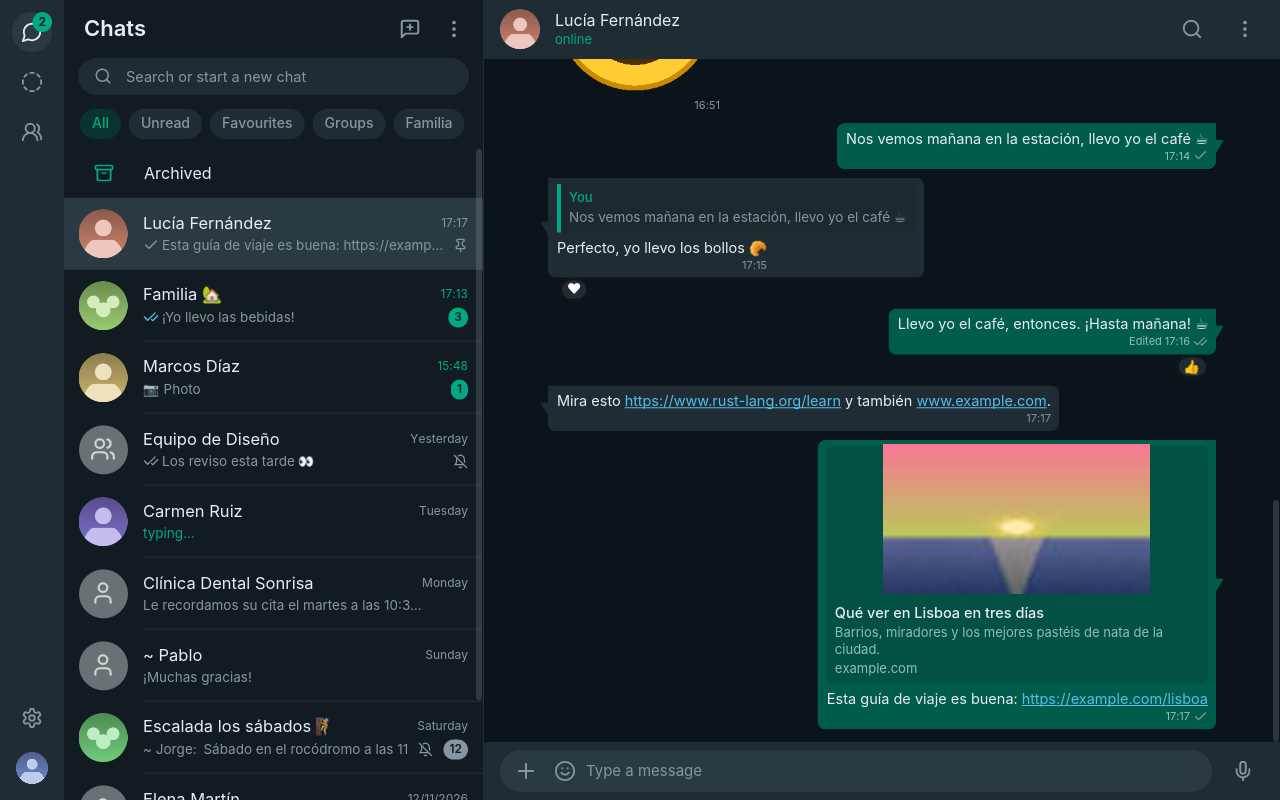
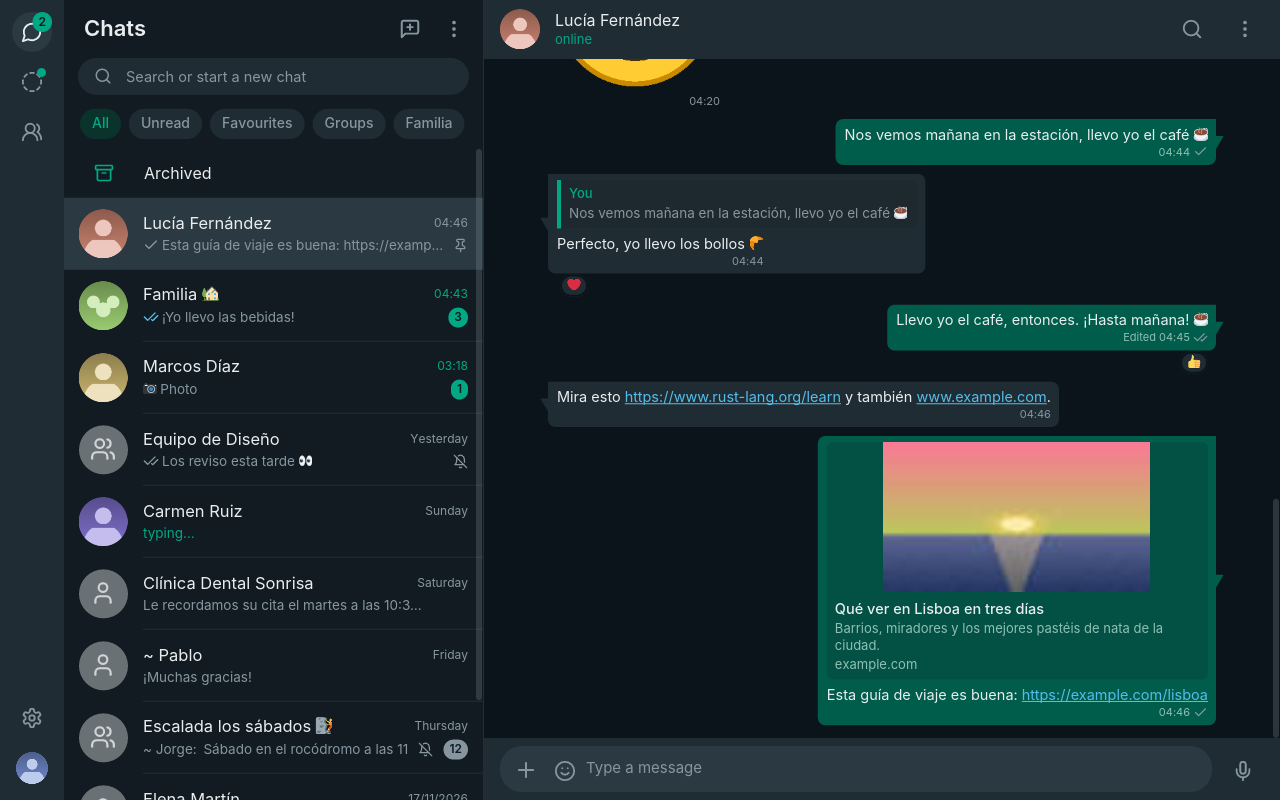
docs: composer, emoji, mentions, viewer, info drawer and unread lessons; screenshots
Claude-Session: https://claude.ai/code/session_011GZUAJAc8TohrBZJFGozGm

diff --git a/docs/protocol.md b/docs/protocol.md
@@ -107,6 +107,18 @@ click jumps to the original, loading the cache around it when needed.
 | Presence | `presence().subscribe` when a DM is opened | the library announces us as available itself |
 | Profile pictures | `contacts().get_profile_picture(preview)` + one GET through the library's HTTP client | max 3 lookups at once, only for rows on screen |
 | Group size | `groups().query_info` (cached by the library) | for the aggregate ticks |
+| Contact info drawer | `contacts().get_user_info` (usync: status = "About", verified business name) | only when the drawer opens; privacy settings may hide the About text |
+| Group info drawer | `groups().get_metadata` (description, participants with admin type) | when the drawer opens |
+| Groups in common | `groups().get_participating`, filtered by the contact's PN / LID | when the drawer opens |
+| Block / unblock | `blocking().block / unblock`, `blocking().is_blocked` | after a confirmation in the drawer |
+| Mute / unmute | `chat_actions().mute_chat` (indefinite) / `unmute_chat` | optimistic, reverted on failure; mute durations other than "always" are not offered yet |
+
+Mentions: `contextInfo.mentionedJid` is kept per message (cache column
+`mentions`, schema 6). An "@<digits>" in the text is shown as the name of
+the mentioned JID: LID -> phone number through the learned pairs, then
+saved > business > push name, then the formatted number; an unnamed LID
+without a known number reads "@Unknown", never digits
+(`ChatList::mention_label`).
 
 The 10 s / 5 s typing timings and the 15 min / 2.5 day windows follow what
 WhatsApp Web does as far as we know; they are constants in `app/live.rs` and
@@ -233,7 +245,9 @@ chats are unchanged.
 | `~/.config/autostart/dev.ferro.ferrochat.desktop` | "Start at login" entry (`Exec=<binary> --minimized`) | Only when the user turns the toggle on; the toggle removes it |
 | `$XDG_DATA_HOME/ferrochat/ferrochat.sock` | Single-instance hand-off: accepts only the line `show` | Unix socket in the 0700 data directory, mode 0600, removed on exit |
 | `$XDG_STATE_HOME/ferrochat/log` (rotated at 5 MB) | Logs | Bodies, phone numbers, QR payloads, keys and file names are redacted (`Redacted`, `MaskedJid`, manual `Debug` impls; covered by `tests/redaction.rs`). |
-| `~/Downloads/<name>` | Documents the user opened | Only on explicit click. |
+| `~/Downloads/<name>` | Documents the user opened; photos saved or opened externally from the image viewer | Only on explicit click. |
+| (cache column `messages.thumb` of videos) | A poster frame (JPEG, <= 480 px) decoded by the player helper for videos (<= 16 MB) that arrived without an inline thumbnail; the video itself lands in the `videos/` cache above | Same file as the cache |
+| (cache key `recent_emoji`) | The emoji picker's recent emoji | Same file as the cache |
 
 The data directory is created with mode 0700 and every database file
 (including `-wal` / `-shm`) is set to 0600. Downloads are capped at 100 MB
@@ -401,6 +415,13 @@ decodes in-process (memory cannot be given back by closing the viewer).
   retroactively).
 * Group "read" ticks turn blue on the first participant's read receipt
   (WhatsApp waits for all participants).
+* Videos that arrive without `jpegThumbnail` (seen on history-synced media;
+  the library's default `HistorySyncConfig` does not ask for
+  `thumbnailSyncDaysLimit`) get a poster frame from the helper when they are
+  at most 16 MB; bigger ones keep the placeholder until played.
+* The info drawer has no "disappearing messages", encryption code,
+  "report" or "exit group" actions, and media visibility / per-chat
+  wallpaper are not offered; mute is "always" only.
 * Windows and macOS have no tray yet (stub): closing the window quits.
 * On Wayland the compositor may refuse to focus a window that is shown from
   the tray or a notification (xdg-activation); it then appears without focus.

diff --git a/LESSONS.md b/LESSONS.md
@@ -221,3 +221,55 @@ next change.
   `Runtime::drop` waits for every `spawn_blocking` task with no timeout. KDE Plasma keeps notifications in
   its history and sends `NotificationClosed` only on dismissal, so `wait_for_action` on the blocking pool
   froze Quit (found in Ferrocord v0.17.0 with gdb). Watch clicks on detached threads.
+
+## Round 6: composer, emoji, mentions, viewer, info drawer
+
+* **Shift+Enter sent the message** because the composer was a `text_input`:
+  its `on_submit` fires on Enter whatever the modifiers and it cannot hold a
+  newline. A `text_editor` with a `key_binding` (plain Enter ->
+  `Binding::Custom(Send)`, Shift+Enter -> `Binding::Enter`) is the fix;
+  Ferrocord had the same migration. Its `min/max_height` exclude padding.
+* **Emoji**: the picker was a fixed 45-entry `grid` with no `scrollable`,
+  drawn with whatever system font had the glyph (mono fallbacks, tofu,
+  COLRv1 Noto drawn blank by swash). Bundling Twemoji as COLRv0 (2 MB,
+  colour vector layers swash renders) and putting it FIRST in cosmic-text's
+  common fallback list fixes every text widget at once; spans per grapheme
+  cluster are still needed where Inter has the base glyph (keycaps, "#",
+  (c)). Debug-build idle RSS in mock mode grew by about the font size
+  (zero-copy `fontdb::Source::Binary`). A test shapes all ~1900 picker emoji
+  and fails on any that is not exactly one glyph of the font.
+* **Don't reflow a picker under the pointer**: updating "Recent" while the
+  drawer is open moved the grid between two clicks; the shown list is a
+  snapshot taken when the drawer opens.
+* **"@123456789012345" previews** were the raw message text: the preview
+  never resolved mentions and the bubble guessed PN vs LID from the digits.
+  Keep `contextInfo.mentionedJid` and resolve through the LID <-> PN pairs;
+  never show a LID's digits (they are not a phone number).
+* **The old image viewer could not enlarge**: an `image` without explicit
+  size is laid out at its natural size (Shrink), and without the full file
+  it showed the 100 px inline thumbnail. A canvas viewer computes the fitted
+  rectangle itself, so zoom around the cursor and pan are a few lines. Keep
+  the full picture in the viewer's own slot when the shared LRU does not
+  have it, and drop it on close.
+* tiny-skia does not clip images (also inside a canvas frame): a zoomed
+  picture paints over its siblings; draw the bar as a later stack layer.
+* **"Click here for contact info" did nothing**: it was a fallback subtitle
+  string; the header had no handler and no info panel existed.
+* **Grey video placeholders**: the only preview source was the inline
+  `jpegThumbnail`, which history-synced videos can lack. A poster frame from
+  the helper (first `F` message, then drop the player), stored in the
+  thumbnail column, gives every small video a preview once.
+* `window::screenshot` captures do not show text inserted programmatically
+  into a `text_editor`; xdotool with `windowfocus --sync` (Xvfb has no WM)
+  drives the real flow.
+* **Erratic unread in the open chat** had three causes: (1) a message that
+  arrived while the window was unfocused raised the badge but was never
+  queued for reading (`pending_read` only grew while focused), and focusing
+  again cleared nothing, so the open chat stayed "unread"; (2) a history
+  chunk replaced the chat's metadata wholesale, unread counter included,
+  re-marking a chat the user was reading; (3) receipts went to the phone
+  number a LID-addressed message had been normalised to, not to the JID it
+  came from, so the phone could keep it unread. "Read" now means focused +
+  newest page + scrolled to the bottom (`state::is_reading`); receipts use
+  the wire JID (`App::wire`).
+

diff --git a/CLAUDE.md b/CLAUDE.md
@@ -9,7 +9,7 @@ the `net::WaClient` trait. Unofficial: third-party clients can get accounts bann
 - `cargo build` / `cargo build --release` (use `CARGO_BUILD_JOBS=2` on shared hosts)
 - `cargo fmt --check && cargo clippy --all-targets -- -D warnings && cargo test`
 - `cargo run -- --mock` (fake protocol + mock data, no network, no disk writes)
-- Screenshots: `ICED_BACKEND=tiny-skia xvfb-run -a -s "-screen 0 1280x800x24" ./target/debug/ferrochat --screenshot <login|chats|chat|reply|reactions|chat-search|list-search|delete|settings|paste> docs/screenshots/<name>.png`
+- Screenshots: `ICED_BACKEND=tiny-skia xvfb-run -a -s "-screen 0 1280x800x24" ./target/debug/ferrochat --screenshot <login|chats|chat|reply|reactions|chat-search|list-search|delete|settings|paste|emoji|viewer|info|group-info> docs/screenshots/<name>.png`
 - Tray test needs a session bus: `dbus-run-session -- cargo test` (the SNI test is skipped without one).
 - Regenerate fixtures: `cargo test --test gen_fixtures -- --ignored`
 
@@ -107,3 +107,23 @@ Wayland `app_id` / desktop entry id: `dev.ferro.ferrochat` (`packaging/`).
 - Never park an unbounded wait on tokio's blocking pool: iced drops its runtime on quit and that waits for
   every `spawn_blocking` task (KDE keeps notifications open, so a click watch there hung Quit). Notification
   click watches run on detached threads (`notify::show`); `tests/notify_quit.rs` guards it.
+- Composer is a `text_editor` (`app/composer.rs`): Enter sends via `key_binding` (`Binding::Custom`),
+  Shift+Enter is the editor's own `Binding::Enter`. `min_height`/`max_height` limit the TEXT, padding comes
+  on top: use `composer::text_height_limits`. Cursor columns are bytes. Text set programmatically is not
+  drawn in `--screenshot` captures (tiny-skia replays the frame): take composer shots with xdotool.
+- Emoji: bundled COLRv0 Twemoji renamed "Ferrochat Twemoji" (`ui::emoji_font`), installed zero-copy and first
+  in cosmic-text's fallback list (`emoji_font::install` in `main`), so even span-less text gets colour emoji.
+  Use `emoji_text`/`emoji_spans` (grapheme clusters) where the text font has the base glyph (keycaps, (c),
+  digits). Never ship WhatsApp's Apple-style emoji (brand asset), never rely on a system emoji font
+  (COLRv1 Noto draws blank/mono in swash). Picker data: `emojis` crate up to Unicode 17 (`app/emoji.rs`).
+- tiny-skia does not clip images: zoomed / covering pictures must sit UNDER opaque layers (image viewer
+  bar) or use `ContentFit::Contain` (info drawer thumbnails).
+- Mentions: show `ChatList::mention_label` / `render_mentions` (uses `Message::mentions`), never raw
+  "@<LID>" text. Previews go through `App::preview`.
+- Info drawer queries (`WaClient::contact_info/group_info/common_groups/is_blocked`) run only when it
+  opens; results are dropped if the drawer moved on (`app/info.rs`).
+- Read state: a message counts as read only while `App::reading_chat()` (focused, newest page, within
+  `BOTTOM_SLACK` of the bottom). `send_pending_reads` clears the badge + cached counter and sends
+  receipts to the wire JID (`App::wire`: LID the message came from). History chunks must not re-mark
+  the chat being read. Regression tests: `app::flows` read-state section.
+

diff --git a/README.md b/README.md
@@ -131,4 +131,6 @@ Architecture: [docs/architecture.md](docs/architecture.md). Lessons learned:
 ## Licence
 
 MIT. Inter is under the SIL Open Font License 1.1, Lucide icons under ISC
-(see `assets/`).
+(see `assets/`). Emoji are drawn with a COLRv0 build of Twemoji (graphics
+CC-BY 4.0 by Twitter, Inc and jdecked; font build Apache-2.0, see
+`assets/fonts/Twemoji-LICENSE.txt`), not WhatsApp's own emoji art.
